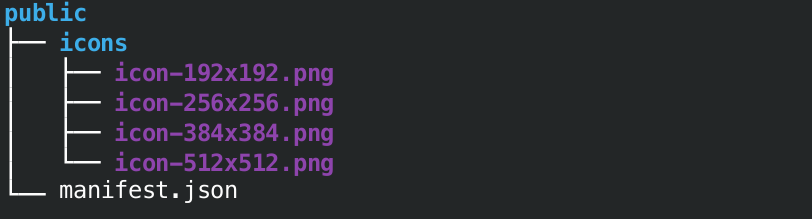
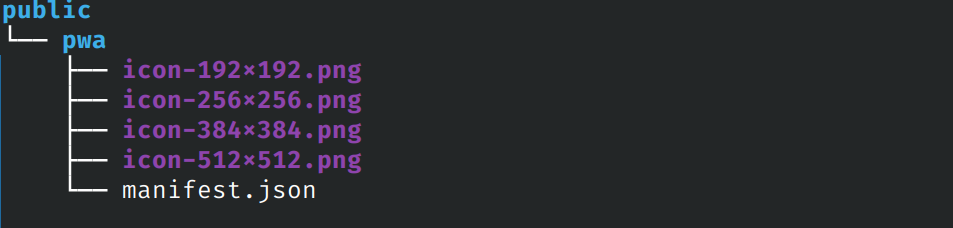
pwa directory

Changed region(s): [[0.0, 0.0, 0.431, 0.9315]]

diff --git a/09_Tema9/README.md b/09_Tema9/README.md
@@ -14,16 +14,16 @@
 - [2. Características de una PWA](#2-características-de-una-pwa)
 - [3. Pasos a seguir](#3-pasos-a-seguir)
   - [3.1. Generar manifest.json e iconos](#31-generar-manifestjson-e-iconos)
-  - [3.2. Añadir manifest.json al layout principal](#32-añadir-manifestjs-al-layout-principal)
+  - [3.2. Añadir manifest.json al layout principal](#32-añadir-manifestjson-al-layout-principal)
 - [4. Instalar / desinstalar PWA](#4-instalar--desinstalar-pwa)
 - [5. Profundizando en las PWA](#5-profundizando-en-las-pwa)
 - [6. Herramientas para auditoría](#6-herramientas-para-auditoría)
 - [7. Otras propiedades de metadata](#7-otras-propiedades-de-metadata)
 - [8. Favicon](#8-favicon)
 - [9. Optimización](#9-optimización)
-- [10. CASOS PRÁCTICOS AVANZADOS](#9-casos-prácticos-avanzados)
-  - [10.1. Panel de gestión de escuela (Parte 2 de 2)](#91-panel-de-gestión-de-escuela-parte-2-de-2)
-- [11. Referencias](#10-referencias)
+- [10. CASOS PRÁCTICOS AVANZADOS](#10-casos-prácticos-avanzados)
+  - [10.1. Panel de gestión de escuela (Parte 2 de 2)](#101-panel-de-gestión-de-escuela-parte-2-de-2)
+- [11. Referencias](#11-referencias)
 
 
 
@@ -160,7 +160,7 @@ import '@/app/globals.css'
 export const metadata = {
   title: 'ORM Prisma',
   description: 'Generated by create next app',
-  manifest: '/manifest.json'
+  manifest: '/pwa/manifest.json'
 }
 ```
 
